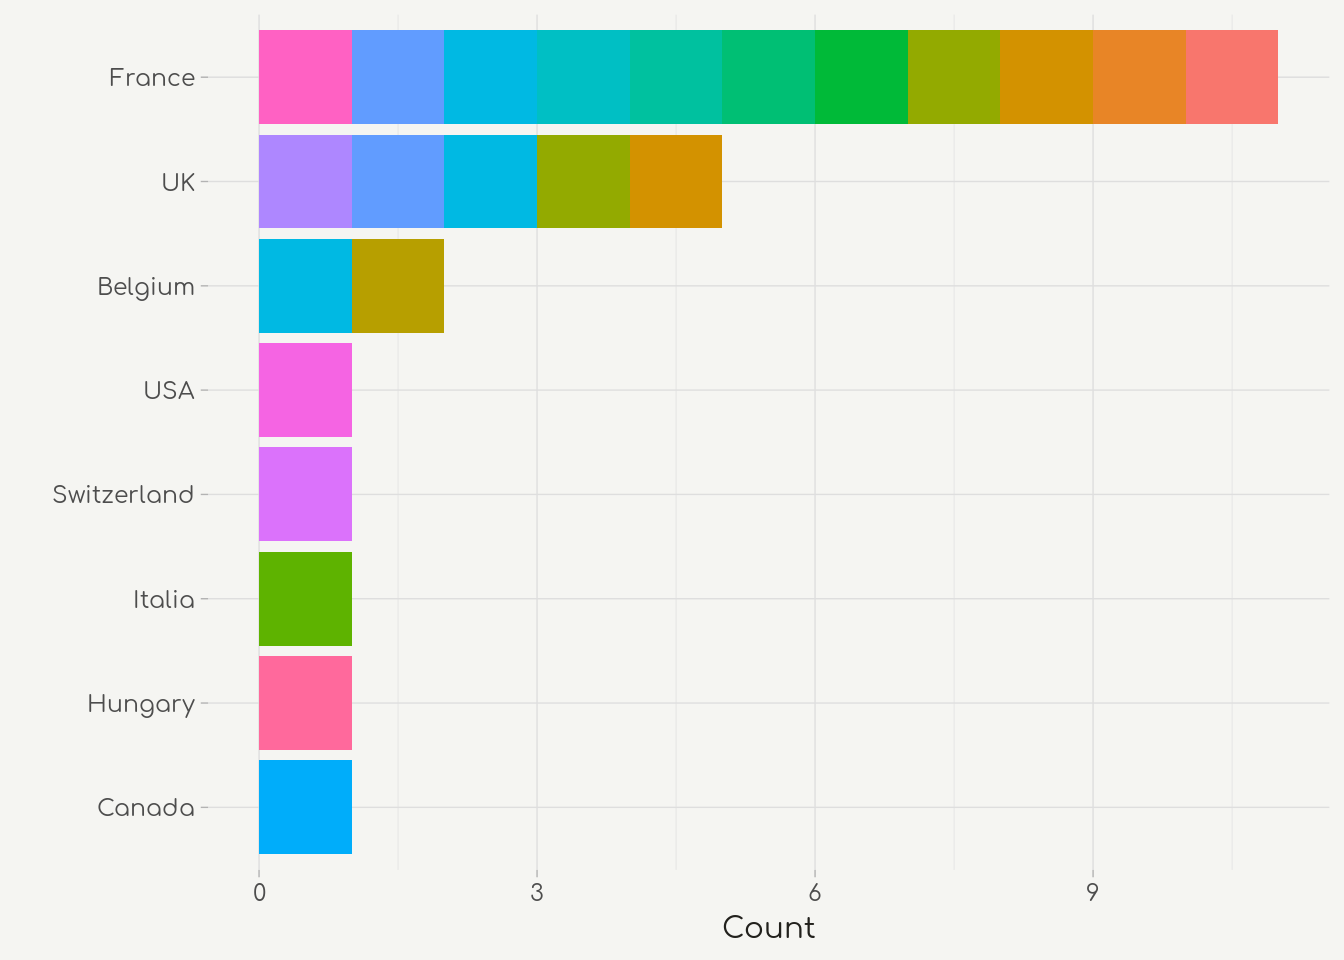
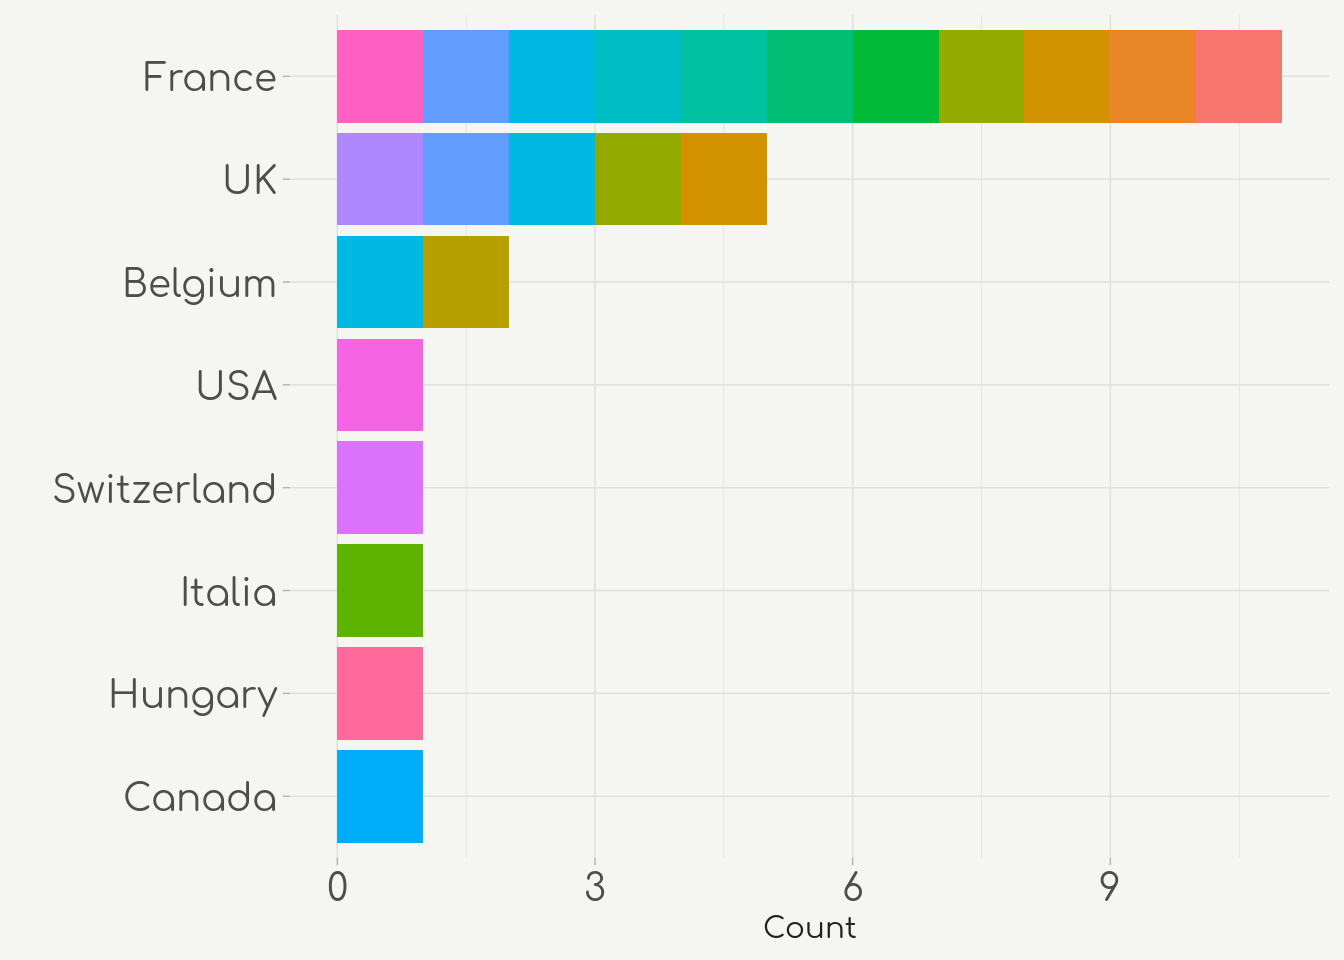
Update histogram text size

diff --git a/content/blog/2019-01-31-world-tempus-advent-calendar-2018.html b/content/blog/2019-01-31-world-tempus-advent-calendar-2018.html
@@ -51,9 +51,8 @@ my_theme &lt;- theme(text = element_text(family = my_font, color = &quot;#22211d
                   plot.caption = element_text(size = 6))
 
 theme_set(theme_light() + my_theme)</code></pre>
-</div>
-<div id="scraping-the-web" class="section level1">
-<h1>Scraping the web</h1>
+<div id="scraping-the-web" class="section level2">
+<h2>Scraping the web</h2>
 <p>Below I use rvest’s read_html function to load the url. The content is parsed using html_nodes that I identified using the SelectorGadget browser plugin.</p>
 <pre class="r"><code>url &lt;- &quot;http://en.worldtempus.com/article/events/arts-and-culture/advent-calendar-here-are-the-winners-26936.html?utm_source=Worldtempus+Concours+EN&amp;utm_campaign=d835784c43-EMAIL_CAMPAIGN_2018_avent_gagnant_generale_EN&amp;utm_medium=email&amp;utm_term=0_1b496ba624-d835784c43-119672677&quot;
 
@@ -61,8 +60,8 @@ df &lt;- read_html(url) %&gt;%
   html_nodes(&quot;.theContent , .theContent p , .theContent li&quot;) %&gt;%
   html_text() </code></pre>
 </div>
-<div id="data-cleaning-and-munging" class="section level1">
-<h1>Data Cleaning and Munging</h1>
+<div id="data-cleaning-and-munging" class="section level2">
+<h2>Data Cleaning and Munging</h2>
 <p>Cleaning the data and pulling out features (like ‘Country’ and ‘Brand’) required brushing up on regular expressions. It took some trial and error, but it was very good practice.</p>
 <pre class="r"><code>df &lt;- df[3:48] 
 
@@ -337,27 +336,31 @@ Hermès
 </tr>
 </tbody>
 </table>
-<div id="which-countries-had-the-most-contest-winners-and-what-brands-were-most-commonly-offered-as-prizes" class="section level2">
-<h2>Which countries had the most contest winners? And what brands were most commonly offered as prizes?</h2>
+<p></br></p>
+<div id="which-countries-had-the-most-contest-winners-and-what-brands-were-most-commonly-offered-as-prizes" class="section level3">
+<h3>Which countries had the most contest winners? And what brands were most commonly offered as prizes?</h3>
 <pre class="r"><code>data %&gt;%
   add_count(Country, sort =T) %&gt;%
   mutate(Country = fct_reorder(Country,n)) %&gt;%
   ggplot(aes(Country, fill=Brand)) +
   geom_histogram(stat=&quot;count&quot;, show.legend = F) +
   coord_flip() +
-  labs(x=&quot;&quot;,y=&quot;Count&quot;)</code></pre>
-<p><img src="/blog/2019-01-31-world-tempus-advent-calendar-2018_files/figure-html/unnamed-chunk-4-1.png" width="672" /></p>
+  labs(x=&quot;&quot;,y=&quot;Count&quot;) +
+  theme(axis.text = element_text(size = 14))</code></pre>
+<p><img src="/blog/2019-01-31-world-tempus-advent-calendar-2018_files/figure-html/unnamed-chunk-4-1.png" width="672" />
+</br></p>
 </div>
-<div id="what-is-the-relationship-between-countries-and-brands" class="section level2">
-<h2>What is the relationship between countries and brands?</h2>
+<div id="what-is-the-relationship-between-countries-and-brands" class="section level3">
+<h3>What is the relationship between countries and brands?</h3>
 <pre class="r"><code>network_data &lt;- data %&gt;% select(Country, Brand) 
 
 simpleNetwork(network_data, fontSize = 14, fontFamily = my_font, opacity = 0.8, linkDistance = 100, charge = -10, zoom = F)</code></pre>
-<div id="htmlwidget-1" style="width:672px;height:480px;" class="forceNetwork html-widget"></div>
+<p><div id="htmlwidget-1" style="width:672px;height:480px;" class="forceNetwork html-widget"></div>
 <script type="application/json" data-for="htmlwidget-1">{"x":{"links":{"source":[2,10,2,13,10,10,10,23,5,10,23,22,23,10,10,23,25,10,10,10,14,23,10],"target":[4,3,15,24,15,17,21,6,16,12,18,19,17,6,8,15,20,0,1,9,7,3,11],"value":[1,1,1,1,1,1,1,1,1,1,1,1,1,1,1,1,1,1,1,1,1,1,1],"colour":["#666","#666","#666","#666","#666","#666","#666","#666","#666","#666","#666","#666","#666","#666","#666","#666","#666","#666","#666","#666","#666","#666","#666"]},"nodes":{"name":["Ader Watches","Baume & Mercier","Belgium","Bovet 1822","Bulgari","Canada","Carl F. Bucherer","Chaumet","Favre-Leuba","Ferdinand Berthoud","France","Girard-Perregaux","Hermès","Hungary","Italia","Louis Vuitton","Montblanc","Omega","Ralph Lauren","Rebellion","Reuge","Seiko","Switzerland","UK","Ulysse Nardin","USA"],"group":[1,1,1,1,1,1,1,1,1,1,1,1,1,1,1,1,1,1,1,1,1,1,1,1,1,1],"nodesize":[8,8,8,8,8,8,8,8,8,8,8,8,8,8,8,8,8,8,8,8,8,8,8,8,8,8]},"options":{"NodeID":"name","Group":"group","colourScale":"d3.scaleOrdinal(['#3182bd'])","fontSize":14,"fontFamily":"Comfortaa","clickTextSize":35,"linkDistance":100,"linkWidth":"'1.5px'.toString()","charge":-10,"opacity":0.8,"zoom":false,"legend":false,"arrows":false,"nodesize":true,"radiusCalculation":"d.nodesize","bounded":false,"opacityNoHover":1,"clickAction":null}},"evals":[],"jsHooks":[]}</script>
+</br></p>
 </div>
-<div id="can-i-build-a-cleaner-visualization-of-this-relationship" class="section level2">
-<h2>Can I build a cleaner visualization of this relationship?</h2>
+<div id="can-i-build-a-cleaner-visualization-of-this-relationship" class="section level3">
+<h3>Can I build a cleaner visualization of this relationship?</h3>
 <p>I think a Sankey diagram would work well here, but I’ve never successfully built one before.</p>
 <pre class="r"><code># building dataframes to help construct the Sankey diagram
 nodes &lt;- data %&gt;%
@@ -381,7 +384,8 @@ names &lt;- data.frame(node = seq(0,n_distinct(data$Country)+n_distinct(data$Bra
   left_join(targets, by = &quot;node&quot;) %&gt;%
   mutate(name = if_else(is.na(Country),Brand,Country)) %&gt;%
   select(node, name) </code></pre>
-<pre class="r"><code>sankeyNetwork(Links = links, Nodes = names, Source = &quot;source&quot;,
+<pre class="r"><code># create sankey chart using Network3D
+sankeyNetwork(Links = links, Nodes = names, Source = &quot;source&quot;,
               Target = &quot;target&quot;, Value = &quot;value&quot;, NodeID = &quot;name&quot;,
               colourScale = JS(&quot;d3.scaleOrdinal(d3.schemeCategory20);&quot;),
               fontSize = 12, fontFamily = my_font, nodeWidth = 50, nodePadding  = 2)</code></pre>
@@ -389,5 +393,6 @@ names &lt;- data.frame(node = seq(0,n_distinct(data$Country)+n_distinct(data$Bra
 <script type="application/json" data-for="htmlwidget-2">{"x":{"links":{"source":[0,0,0,0,0,0,0,0,0,0,0,1,1,1,1,1,2,2,3,4,5,6,7],"target":[9,8,11,24,19,10,16,12,13,17,18,10,21,11,8,9,14,8,20,25,15,22,23],"value":[2,3,2,1,1,2,1,1,1,1,1,2,1,2,3,2,1,3,1,1,1,1,1]},"nodes":{"name":["France","UK","Belgium","Canada","Hungary","Italia","Switzerland","USA","Louis Vuitton","Bovet 1822","Carl F. Bucherer","Omega","Ader Watches","Baume & Mercier","Bulgari","Chaumet","Favre-Leuba","Ferdinand Berthoud","Girard-Perregaux","Hermès","Montblanc","Ralph Lauren","Rebellion","Reuge","Seiko","Ulysse Nardin"],"group":["France","UK","Belgium","Canada","Hungary","Italia","Switzerland","USA","Louis Vuitton","Bovet 1822","Carl F. Bucherer","Omega","Ader Watches","Baume & Mercier","Bulgari","Chaumet","Favre-Leuba","Ferdinand Berthoud","Girard-Perregaux","Hermès","Montblanc","Ralph Lauren","Rebellion","Reuge","Seiko","Ulysse Nardin"]},"options":{"NodeID":"name","NodeGroup":"name","LinkGroup":null,"colourScale":"d3.scaleOrdinal(d3.schemeCategory20);","fontSize":12,"fontFamily":"Comfortaa","nodeWidth":50,"nodePadding":2,"units":"","margin":{"top":null,"right":null,"bottom":null,"left":null},"iterations":32,"sinksRight":true}},"evals":[],"jsHooks":[]}</script>
 <p>Success! I’m glad I pu the extra effort into learning how to create this chart. I definitely learned a lot!</p>
 <p>Most of the winners were from France, the UK, and Belgium. We also see that there were three prizes from Louis Vuitton and two from each of Omega, Carl F Bucherer, and Bovet. And we see this in a very clear and pleasing format.</p>
+</div>
 </div>
 </div>
